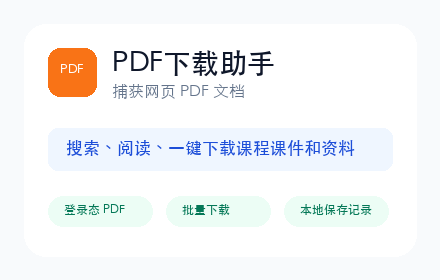
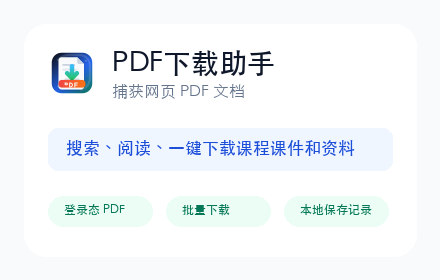
优化2.0版本

Changed region(s): [[0.0886, 0.1714, 0.2364, 0.3714]]

diff --git a/build.js b/build.js
@@ -2,6 +2,19 @@ import { build } from 'vite'
 import { resolve } from 'path'
 import fs from 'fs'
 
+function copyDirectory(source, target) {
+  fs.mkdirSync(target, { recursive: true })
+  for (const entry of fs.readdirSync(source, { withFileTypes: true })) {
+    const sourcePath = resolve(source, entry.name)
+    const targetPath = resolve(target, entry.name)
+    if (entry.isDirectory()) {
+      copyDirectory(sourcePath, targetPath)
+    } else {
+      fs.copyFileSync(sourcePath, targetPath)
+    }
+  }
+}
+
 // 构建插件
 async function buildExtension() {
   // 构建主应用
@@ -16,10 +29,7 @@ async function buildExtension() {
   )
   
   // 复制图标文件
-  fs.copyFileSync(
-    resolve('public/pdf-icon.png'),
-    resolve('dist/pdf-icon.png')
-  )
+  copyDirectory(resolve('public/icons'), resolve('dist/icons'))
   
   console.log('Chrome插件构建完成！')
   console.log('请将dist目录加载到Chrome扩展程序中')

diff --git a/src/components/PopupHeader.vue b/src/components/PopupHeader.vue
@@ -1,5 +1,5 @@
 <script setup>
-import { FileText, Languages, RefreshCw } from '@lucide/vue'
+import { Languages, RefreshCw } from '@lucide/vue'
 
 defineProps({
   currentLocale: {
@@ -23,7 +23,7 @@ defineEmits(['refresh', 'update:currentLocale'])
   <header class="header">
     <div class="brand">
       <div class="brand-mark" aria-hidden="true">
-        <FileText :size="22" />
+        <img src="/icons/pdf-downloader-48.png" alt="" />
       </div>
       <div class="brand-copy">
         <h1>{{ t('app.title') }}</h1>

diff --git a/src/styles/popup.css b/src/styles/popup.css
@@ -73,9 +73,16 @@ select:focus-visible {
   display: grid;
   place-items: center;
   flex: 0 0 auto;
-  border-radius: 10px;
-  color: #ffffff;
-  background: #f97316;
+  border-radius: 11px;
+  overflow: hidden;
+  background: #0f172a;
+  box-shadow: 0 10px 24px rgba(15, 23, 42, 0.16);
+}
+
+.brand-mark img {
+  width: 42px;
+  height: 42px;
+  display: block;
 }
 
 .brand-copy {
